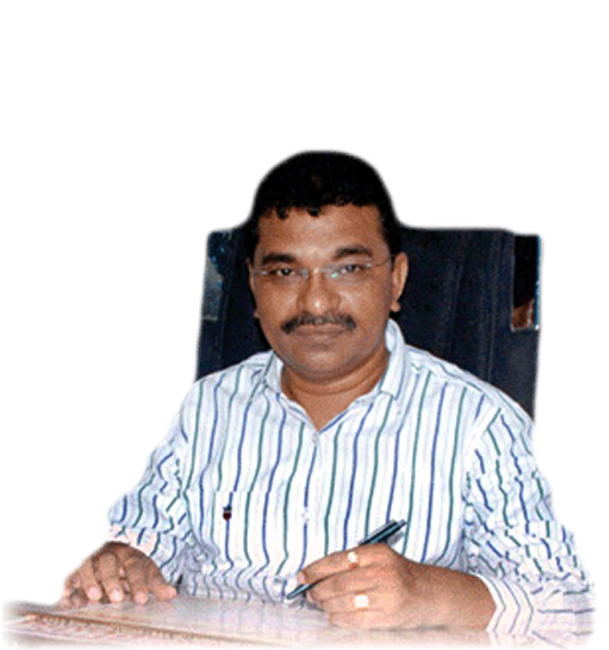
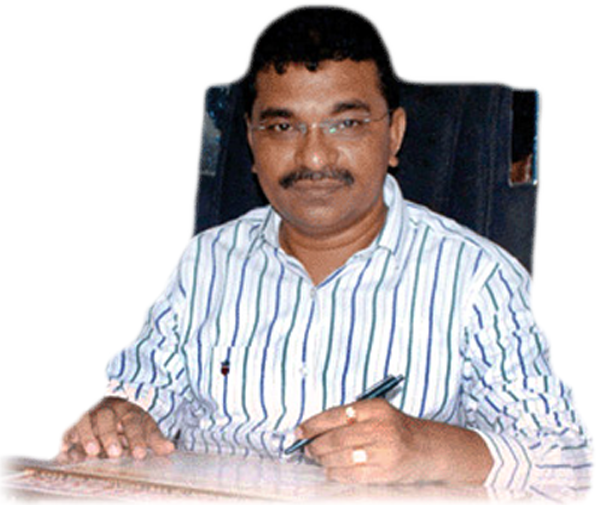
fixed slider1 image placement

diff --git a/css/main.css b/css/main.css
@@ -400,7 +400,8 @@ input.search-form:hover {
 
 #main-slider .carousel .slider-img{
   text-align: right;
-  position: absolute;
+  position: relative;
+  bottom: 100px;
 }
 
 
